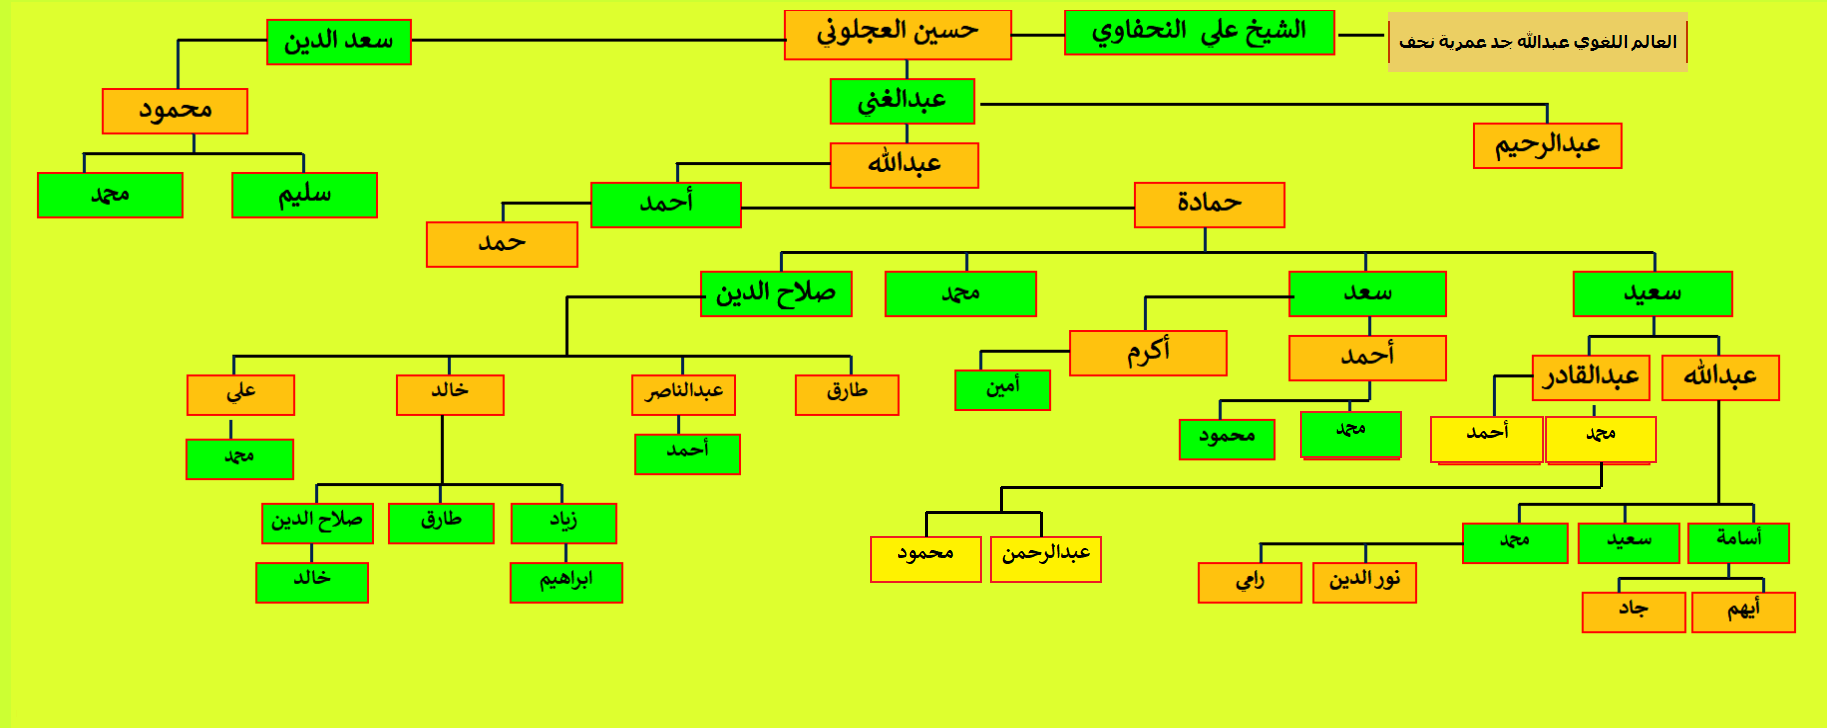
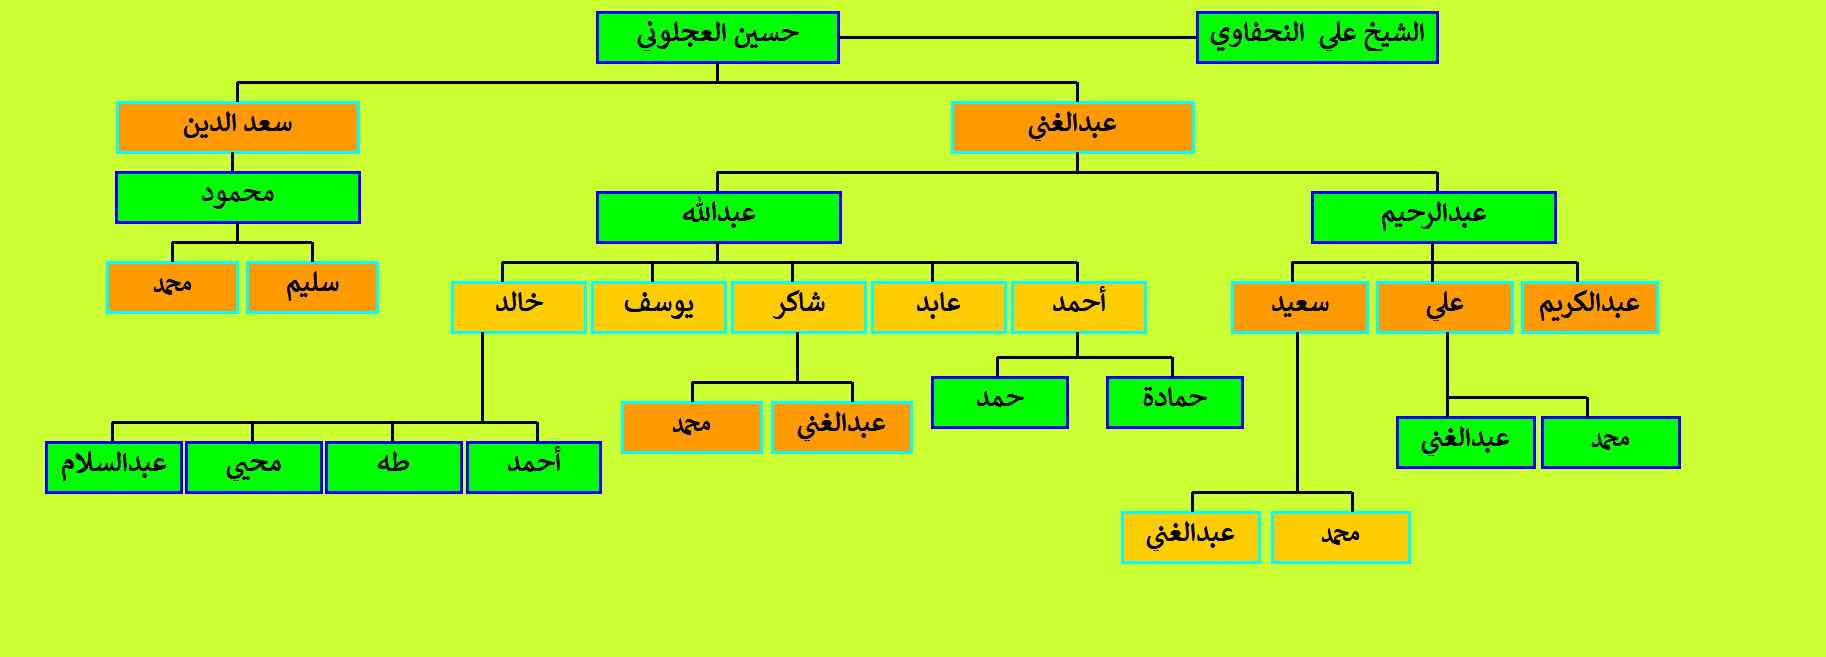
update

diff --git a/Nehef.html b/Nehef.html
@@ -43,27 +43,24 @@ function FP_getObjectByID(id,o) {//v1.0
 </style>
 </head>
 
-<body style="background-color: #DEFF2F" onload="FP_preloadImgs(/*url*/'button2733.gif',/*url*/'button2734.gif',/*url*/'button2736.gif',/*url*/'button2737.gif',/*url*/'button2742.gif',/*url*/'button2743.gif',/*url*/'button2748.gif',/*url*/'button2749.gif',/*url*/'button2775.gif',/*url*/'button2776.gif',/*url*/'button2781.gif',/*url*/'button2782.gif')">
+<body style="background-color: #CCFF33" onload="FP_preloadImgs(/*url*/'button2733.gif',/*url*/'button2734.gif',/*url*/'button2736.gif',/*url*/'button2737.gif',/*url*/'button2742.gif',/*url*/'button2743.gif',/*url*/'button2748.gif',/*url*/'button2749.gif',/*url*/'button2784.gif',/*url*/'button2785.gif')">
 
 <div id="layer1" style="position: absolute; width: 120px; height: 45px; z-index: 1; left: 25px; top: 25px" class="auto-style5">
 	<a href="index.html">
-	<div id="layer2" style="position: absolute; width: 310px; height: 65px; z-index: 2; left: 1365px; top: 5px">
+	<div id="layer2" style="position: absolute; width: 310px; height: 65px; z-index: 2; left: 1455px; top: 0px">
 		<a href="Isa-El-Noman.html">
 		<img id="img2" alt="العالم اللغوي عبدالله جد عمرية نحف" height="60" onmousedown="FP_swapImg(1,0,/*id*/'img2',/*url*/'button2737.gif')" onmouseout="FP_swapImg(0,0,/*id*/'img2',/*url*/'button2738.gif')" onmouseover="FP_swapImg(1,0,/*id*/'img2',/*url*/'button2736.gif')" onmouseup="FP_swapImg(0,0,/*id*/'img2',/*url*/'button2736.gif')" src="button2738.gif" style="border: 0" width="300" /><!-- MSComment="ibutton" fp-style="fp-btn: Brick Row 3; fp-font-style: Bold; fp-transparent: 1" fp-title="العالم اللغوي عبدالله جد عمرية نحف" --></a></div>
 	<div id="layer5" class="auto-style6" style="position: absolute; width: 1080px; height: 55px; z-index: 5; left: 30px; top: 670px">
 		<strong><span class="auto-style7">اعداد و تحقيق خالد صلاح الدين حمادة 
 		أحمد آل عبدالغني ، حفيد العالم اللغوي عبدالله بن زين الدين العمري</span></strong></div>
-	<div id="layer6" style="position: absolute; width: 105px; height: 30px; z-index: 6; left: 960px; top: 150px">
-		<a href="http://new.omaritree.com/5345">
-		<img id="img5" alt="الأبناء" height="21" onmousedown="FP_swapImg(1,0,/*id*/'img5',/*url*/'button2776.gif')" onmouseout="FP_swapImg(0,0,/*id*/'img5',/*url*/'button2777.gif')" onmouseover="FP_swapImg(1,0,/*id*/'img5',/*url*/'button2775.gif')" onmouseup="FP_swapImg(0,0,/*id*/'img5',/*url*/'button2775.gif')" src="button2777.gif" style="border: 0" width="105" /><!-- MSComment="ibutton" fp-style="fp-btn: Metal Capsule 6; fp-font-style: Bold; fp-font-size: 8; fp-transparent: 1" fp-title="الأبناء" --></a></div>
-	<div id="layer7" style="position: absolute; width: 100px; height: 25px; z-index: 7; left: 1490px; top: 160px">
-		<a href="http://new.omaritree.com/5355">
-		<img id="img6" alt="الأبناء" height="20" onmousedown="FP_swapImg(1,0,/*id*/'img6',/*url*/'button2782.gif')" onmouseout="FP_swapImg(0,0,/*id*/'img6',/*url*/'button2783.gif')" onmouseover="FP_swapImg(1,0,/*id*/'img6',/*url*/'button2781.gif')" onmouseup="FP_swapImg(0,0,/*id*/'img6',/*url*/'button2781.gif')" src="button2783.gif" style="border: 0" width="100" /><!-- MSComment="ibutton" fp-style="fp-btn: Metal Capsule 6; fp-font-style: Bold; fp-font-size: 8; fp-transparent: 1" fp-title="الأبناء" --></a></div>
+	<div id="layer6" style="position: absolute; width: 105px; height: 30px; z-index: 6; left: 1100px; top: 470px">
+		<a href="Nehef-Hamada.html">
+		<img id="img5" alt="الاحفاد" height="20" onmousedown="FP_swapImg(1,0,/*id*/'img5',/*url*/'button2785.gif')" onmouseout="FP_swapImg(0,0,/*id*/'img5',/*url*/'button2786.gif')" onmouseover="FP_swapImg(1,0,/*id*/'img5',/*url*/'button2784.gif')" onmouseup="FP_swapImg(0,0,/*id*/'img5',/*url*/'button2784.gif')" src="button2786.gif" style="border: 0" width="100" /><!-- MSComment="ibutton" fp-style="fp-btn: Metal Capsule 6; fp-font-style: Bold; fp-font-size: 8; fp-transparent: 1" fp-title="الاحفاد" --></a></div>
 	<a href="index.html">
-	<img id="img1" alt="الصفحة الرئيسية" height="24" onmousedown="FP_swapImg(1,0,/*id*/'img1',/*url*/'button2734.gif')" onmouseout="FP_swapImg(0,0,/*id*/'img1',/*url*/'button2735.gif')" onmouseover="FP_swapImg(1,0,/*id*/'img1',/*url*/'button2733.gif')" onmouseup="FP_swapImg(0,0,/*id*/'img1',/*url*/'button2733.gif')" src="button2735.gif" style="border: 0" width="119" /><!-- MSComment="ibutton" fp-style="fp-btn: Metal Capsule 3; fp-font-style: Bold; fp-font-size: 8; fp-transparent: 1" fp-title="الصفحة الرئيسية" --></a></a><div id="layer3" style="position: absolute; width: 55px; height: 40px; z-index: 3; left: 1690px; top: 5px">
+	<img id="img1" alt="الصفحة الرئيسية" height="24" onmousedown="FP_swapImg(1,0,/*id*/'img1',/*url*/'button2734.gif')" onmouseout="FP_swapImg(0,0,/*id*/'img1',/*url*/'button2735.gif')" onmouseover="FP_swapImg(1,0,/*id*/'img1',/*url*/'button2733.gif')" onmouseup="FP_swapImg(0,0,/*id*/'img1',/*url*/'button2733.gif')" src="button2735.gif" style="border: 0" width="119" /><!-- MSComment="ibutton" fp-style="fp-btn: Metal Capsule 3; fp-font-style: Bold; fp-font-size: 8; fp-transparent: 1" fp-title="الصفحة الرئيسية" --></a></a><div id="layer3" style="position: absolute; width: 55px; height: 40px; z-index: 3; left: 1785px; top: 5px">
 		<a href="http://new.omaritree.com/4415">
 		<img id="img3" alt="" height="50" onmousedown="FP_swapImg(1,0,/*id*/'img3',/*url*/'button2743.gif')" onmouseout="FP_swapImg(0,0,/*id*/'img3',/*url*/'button2744.gif')" onmouseover="FP_swapImg(1,0,/*id*/'img3',/*url*/'button2742.gif')" onmouseup="FP_swapImg(0,0,/*id*/'img3',/*url*/'button2742.gif')" src="button2744.gif" style="border: 0" width="250" /><!-- MSComment="ibutton" fp-style="fp-btn: Simple Circle 1; fp-font-style: Bold; fp-transparent: 1" fp-title="" --></a></div>
-	<div id="layer4" style="position: absolute; width: 105px; height: 25px; z-index: 4; top: 260px; left: 415px">
+	<div id="layer4" style="position: absolute; width: 105px; height: 25px; z-index: 4; top: 470px; left: 940px">
 		<a href="Nehef-1.html">
 		<img id="img4" alt="الاحفاد" height="20" onmousedown="FP_swapImg(1,0,/*id*/'img4',/*url*/'button2749.gif')" onmouseout="FP_swapImg(0,0,/*id*/'img4',/*url*/'button2750.gif')" onmouseover="FP_swapImg(1,0,/*id*/'img4',/*url*/'button2748.gif')" onmouseup="FP_swapImg(0,0,/*id*/'img4',/*url*/'button2748.gif')" src="button2750.gif" style="border: 0" width="100" /><!-- MSComment="ibutton" fp-style="fp-btn: Metal Capsule 6; fp-font-style: Bold; fp-font-size: 8; fp-transparent: 1" fp-title="الاحفاد" --></a></div>
 </div>

diff --git a/Nehef-Hamada.html b/Nehef-Hamada.html
@@ -1,0 +1,54 @@
+<!DOCTYPE html PUBLIC "-//W3C//DTD XHTML 1.0 Transitional//EN" "http://www.w3.org/TR/xhtml1/DTD/xhtml1-transitional.dtd">
+<html xmlns="http://www.w3.org/1999/xhtml">
+
+<head>
+<meta content="text/html; charset=utf-8" http-equiv="Content-Type" />
+<title>النسب العمري - نحف</title>
+<style type="text/css">
+.auto-style7 {
+	background-color: #FFFFFF;
+}
+.auto-style8 {
+	text-align: center;
+	font-size: large;
+}
+</style>
+<script type="text/javascript">
+<!--
+function FP_preloadImgs() {//v1.0
+ var d=document,a=arguments; if(!d.FP_imgs) d.FP_imgs=new Array();
+ for(var i=0; i<a.length; i++) { d.FP_imgs[i]=new Image; d.FP_imgs[i].src=a[i]; }
+}
+
+function FP_swapImg() {//v1.0
+ var doc=document,args=arguments,elm,n; doc.$imgSwaps=new Array(); for(n=2; n<args.length;
+ n+=2) { elm=FP_getObjectByID(args[n]); if(elm) { doc.$imgSwaps[doc.$imgSwaps.length]=elm;
+ elm.$src=elm.src; elm.src=args[n+1]; } }
+}
+
+function FP_getObjectByID(id,o) {//v1.0
+ var c,el,els,f,m,n; if(!o)o=document; if(o.getElementById) el=o.getElementById(id);
+ else if(o.layers) c=o.layers; else if(o.all) el=o.all[id]; if(el) return el;
+ if(o.id==id || o.name==id) return o; if(o.childNodes) c=o.childNodes; if(c)
+ for(n=0; n<c.length; n++) { el=FP_getObjectByID(id,c[n]); if(el) return el; }
+ f=o.forms; if(f) for(n=0; n<f.length; n++) { els=f[n].elements;
+ for(m=0; m<els.length; m++){ el=FP_getObjectByID(id,els[n]); if(el) return el; } }
+ return null;
+}
+// -->
+</script>
+</head>
+
+<body style="background-color: #CCFF33" onload="FP_preloadImgs(/*url*/'button2790.gif',/*url*/'button2791.gif')">
+
+<div id="layer1" class="auto-style8" style="position: absolute; width: 795px; height: 30px; z-index: 1; left: 95px; top: 690px">
+	<strong><span class="auto-style7">اعداد و تحقيق خالد صلاح الدين حمادة أحمد 
+	آل عبدالغني ، حفيد العالم اللغوي عبدالله بن زين الدين العمري</span></strong></div>
+<div id="layer2" style="position: absolute; width: 110px; height: 30px; z-index: 2; left: 20px; top: 30px">
+	<a href="index.html">
+	<img id="img1" alt="الصفحة الرئيسية" height="23" onmousedown="FP_swapImg(1,0,/*id*/'img1',/*url*/'button2791.gif')" onmouseout="FP_swapImg(0,0,/*id*/'img1',/*url*/'button2792.gif')" onmouseover="FP_swapImg(1,0,/*id*/'img1',/*url*/'button2790.gif')" onmouseup="FP_swapImg(0,0,/*id*/'img1',/*url*/'button2790.gif')" src="button2792.gif" style="border: 0" width="115" /><!-- MSComment="ibutton" fp-style="fp-btn: Metal Capsule 3; fp-font-style: Bold; fp-font-size: 8; fp-transparent: 1" fp-title="الصفحة الرئيسية" --></a></div>
+<img alt="" height="727" src="Nehef-Hamada.png" width="1818" />
+
+</body>
+
+</html>
